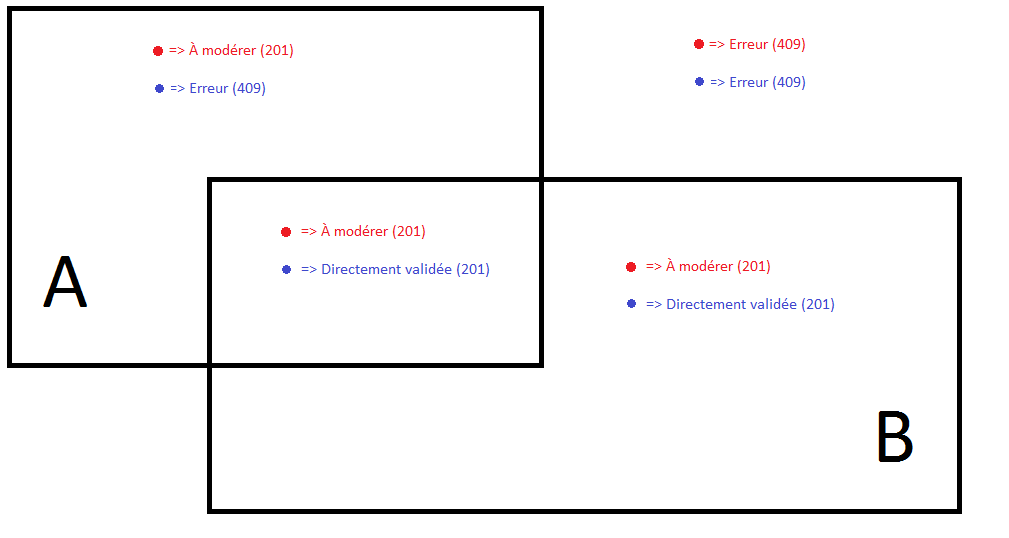
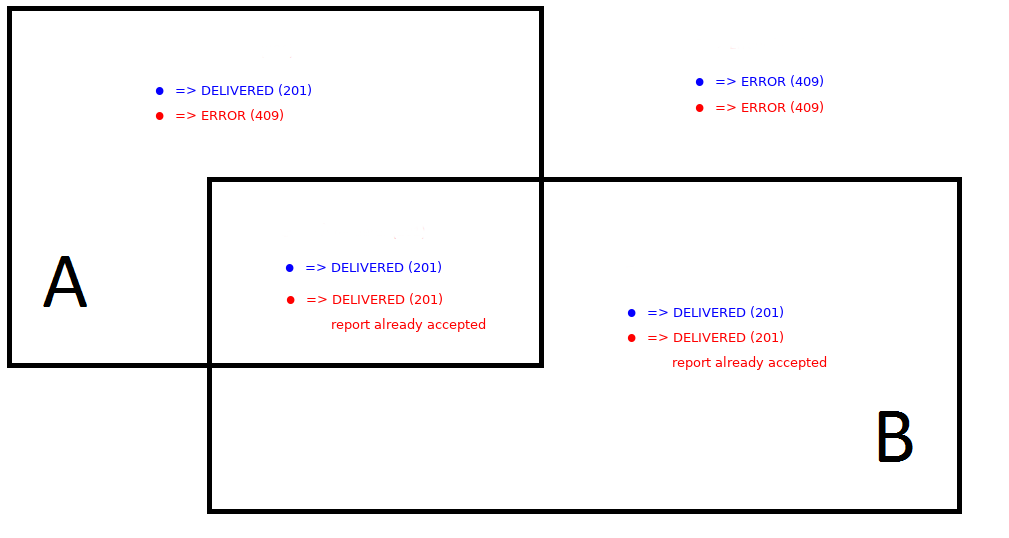
Change image with validation or moderation expression.

diff --git a/feedbacks.rst b/feedbacks.rst
@@ -16,7 +16,7 @@ Creation
 
     POST /feedbacks/issues
 
-Minimal example of a feedback :
+Minimal example of a feedback:
 
 .. code-block:: json
 
@@ -31,7 +31,7 @@ Minimal example of a feedback :
         }
     }
 
-Complete example :
+Complete example:
 
 .. code-block:: json
 
@@ -49,7 +49,7 @@ Complete example :
         "visibility": "VISIBILITY_PUBLIC"
     }
 
-Then the user can add one or more pictures to his feedback :
+Then the user can add one or more pictures to his feedback:
 
 .. code-block:: bash
 
@@ -81,7 +81,7 @@ For more informations about places, see :ref:`organizations-places`.
 Feedbacks by an agent
 ---------------------
 
-Agents (:ref:`members-agent`) can post feedbacks the same way as every user. What's more, an agent can enter in "pro mode". To do so, just put in the body of the request, the "proMode" field with the value "true". Thus, his feedback will be treated differently :
+Agents (:ref:`members-agent`) can post feedbacks the same way as every user. What's more, an agent can enter in "pro mode". To do so, just put in the body of the request, the "proMode" field with the value "true". Thus, his feedback will be treated differently:
 
 - If his feedback is within a place of his organization, a report is created.
 
@@ -96,8 +96,8 @@ On the figure below, square A represents a place belonging to organization A, an
 
 Each dot is a feedback made by **a member of organization B**.
 
-- In blue : feedbacks made in pro mode (pro mode set to true in the request).
-- In red : feedbacks made in normal mode.
+- In blue: feedbacks made in normal mode.
+- In red: feedbacks made in pro mode (pro mode set to true in the request).
 
 .. image:: images/feedback_by_place.png
 
@@ -113,7 +113,7 @@ Life cycle overview
 Get feedbacks
 -------------
 
-To get feedbacks, request the following endpoint :
+To get feedbacks, request the following endpoint:
 
 .. code-block:: bash
 
@@ -123,17 +123,17 @@ This request only returns feedbacks whose state is DELIVERED.
 
 Some criteria may help filter feedbacks.
 
-**By state : state parameter**
+**By state: state parameter**
 
-For example, to filter delivered feedbacks, a user will send the request :
+For example, to filter delivered feedbacks, a user will send the request:
 
 .. code-block:: bash
 
     GET /feedbacks?state=DELIVERED
 
-**Around a point : geo_near parameter**
+**Around a point: geo_near parameter**
 
-Example :
+Example:
 
 .. code-block:: bash
 
@@ -141,16 +141,16 @@ Example :
 
 will return feedbacks within a 1000 meters radius from a point at latitude +44.8 and longitude 0.5.
 
-**Within a GeoHash : geo_hash parameter**
+**Within a GeoHash: geo_hash parameter**
 
-Geohash is a public domain geocoding system [...] which encodes a geographic location into a short string of letters and digits. (Source : `Wikipedia <https://en.wikipedia.org/wiki/Geohash>`_)
+Geohash is a public domain geocoding system [...] which encodes a geographic location into a short string of letters and digits. (Source: `Wikipedia <https://en.wikipedia.org/wiki/Geohash>`_)
 
-For more informations on Geohash, see :
+For more informations on Geohash, see:
 
 - `GeoHash official website <http://geohash.org/>`_
 - `GeoHash explorer <http://geohash.gofreerange.com/>`_
 
-Feedbacks may be filtered with Geohash like this :
+Feedbacks may be filtered with Geohash like this:
 
 .. code-block:: bash
 
@@ -158,9 +158,9 @@ Feedbacks may be filtered with Geohash like this :
 
 This will return feedbacks between geohashes ezzx and ezzz.
 
-**By time period : before and after parameters**
+**By time period: before and after parameters**
 
-Example :
+Example:
 
 .. code-block:: bash
 
@@ -168,7 +168,7 @@ Example :
 
 will return feedbacks made between January 10 and February 22
 
-Dates are written in the format : `ISO 8601 <https://www.iso.org/iso-8601-date-and-time-format.html>`_.
+Dates are written in the format: `ISO 8601 <https://www.iso.org/iso-8601-date-and-time-format.html>`_.
 
 **By organization**
 
@@ -181,7 +181,7 @@ Dates are written in the format : `ISO 8601 <https://www.iso.org/iso-8601-date-a
 Comments
 --------
 
-Users may comment feedbacks :
+Users may comment feedbacks:
 
 .. code-block:: bash
 
@@ -193,7 +193,7 @@ Users may comment feedbacks :
         "text": "My comment"
     }
 
-To get comments on a feedback :
+To get comments on a feedback:
 
 .. code-block:: bash
 
@@ -204,13 +204,13 @@ To get comments on a feedback :
 Contributions
 -------------
 
-A user can also support a feedback this the following request, without body :
+A user can also support a feedback this the following request, without body:
 
 .. code-block:: bash
 
     POST /feedbacks/{feedback}/contributions
 
-To get all supports to a feedback :
+To get all supports to a feedback:
 
 .. code-block:: bash
 
